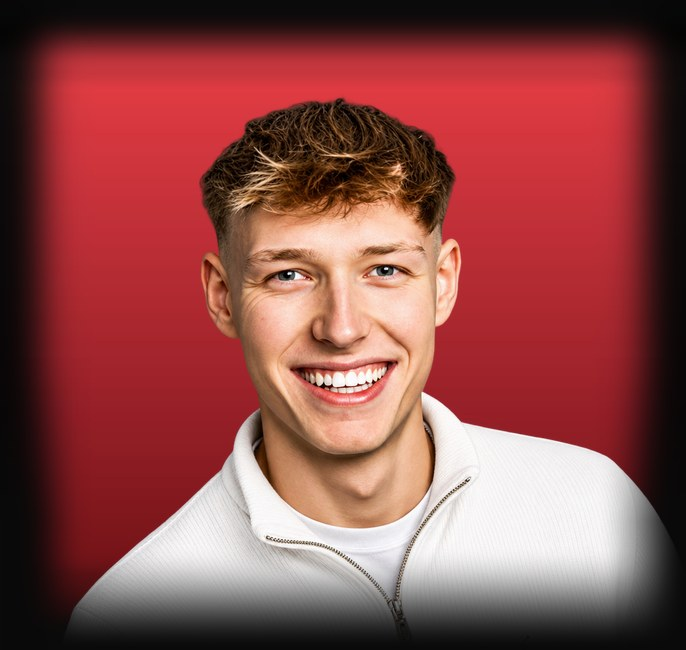
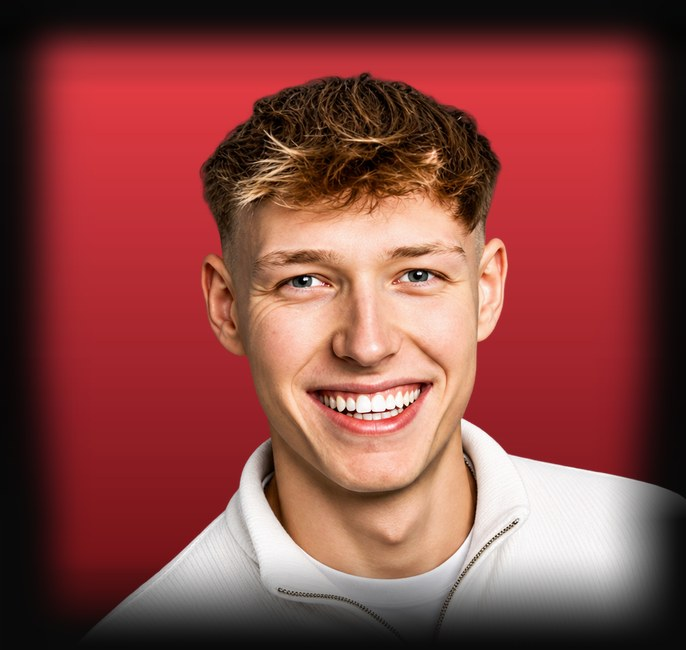
Team-Fotos: Kopfgrößen angeglichen
Claude-Session: https://claude.ai/code/session_01TXyrLPAgJLvZEgJw2Px1jA

Changed region(s): [[0.0918, 0.0923, 0.9184, 0.9846], [0.9184, 0.7385, 1.0, 0.8308]]

diff --git a/index.html b/index.html
@@ -1679,9 +1679,9 @@ form .btn{justify-content:center;margin-top:6px}
       </div>
       <div class="team-head"><span class="eyebrow">Ihr Team</span><h3>Die Köpfe hinter Ihrem Wachstum.</h3></div>
       <div class="team">
-        <figure class="tm"><div class="tm-img"><img src="assets/team-viktor-b.jpg" alt="Viktor Fehl, Gründer und Strategie" loading="lazy"><svg class="svc-bolt" viewBox="0 0 200 120" preserveAspectRatio="none" aria-hidden="true"><path d="M150 0 L118 46 L132 50 L96 120"/></svg></div><figcaption><b>Viktor Fehl</b><span class="tm-role">Gründer · Strategie</span><p>Plant Ihre Strategie und hält alle Fäden zusammen.</p></figcaption></figure>
-        <figure class="tm"><div class="tm-img"><img src="assets/team-julian-b.jpg" alt="Julian Siewe, Hotline-Service" loading="lazy"><svg class="svc-bolt" viewBox="0 0 200 120" preserveAspectRatio="none" aria-hidden="true"><path d="M150 0 L118 46 L132 50 L96 120"/></svg></div><figcaption><b>Julian Siewe</b><span class="tm-role">Hotline-Service</span><p>Nimmt Ihren Anruf entgegen und vereinbart Ihren Termin.</p></figcaption></figure>
-        <figure class="tm"><div class="tm-img"><img src="assets/team-933826-v2.jpg" alt="Eugenia Liefke, Meta, TikTok und Google Ads" loading="lazy"><svg class="svc-bolt" viewBox="0 0 200 120" preserveAspectRatio="none" aria-hidden="true"><path d="M150 0 L118 46 L132 50 L96 120"/></svg></div><figcaption><b>Eugenia Liefke</b><span class="tm-role">Meta, TikTok &amp; Google Ads</span><p>Schaltet Ihre Kampagnen und sorgt dafür, dass die richtigen Leute Sie finden.</p></figcaption></figure>
+        <figure class="tm"><div class="tm-img"><img src="assets/team-viktor-b.jpg?v=2" alt="Viktor Fehl, Gründer und Strategie" loading="lazy"><svg class="svc-bolt" viewBox="0 0 200 120" preserveAspectRatio="none" aria-hidden="true"><path d="M150 0 L118 46 L132 50 L96 120"/></svg></div><figcaption><b>Viktor Fehl</b><span class="tm-role">Gründer · Strategie</span><p>Plant Ihre Strategie und hält alle Fäden zusammen.</p></figcaption></figure>
+        <figure class="tm"><div class="tm-img"><img src="assets/team-julian-b.jpg?v=2" alt="Julian Siewe, Hotline-Service" loading="lazy"><svg class="svc-bolt" viewBox="0 0 200 120" preserveAspectRatio="none" aria-hidden="true"><path d="M150 0 L118 46 L132 50 L96 120"/></svg></div><figcaption><b>Julian Siewe</b><span class="tm-role">Hotline-Service</span><p>Nimmt Ihren Anruf entgegen und vereinbart Ihren Termin.</p></figcaption></figure>
+        <figure class="tm"><div class="tm-img"><img src="assets/team-eugenia-b.jpg" alt="Eugenia Liefke, Meta, TikTok und Google Ads" loading="lazy"><svg class="svc-bolt" viewBox="0 0 200 120" preserveAspectRatio="none" aria-hidden="true"><path d="M150 0 L118 46 L132 50 L96 120"/></svg></div><figcaption><b>Eugenia Liefke</b><span class="tm-role">Meta, TikTok &amp; Google Ads</span><p>Schaltet Ihre Kampagnen und sorgt dafür, dass die richtigen Leute Sie finden.</p></figcaption></figure>
         <figure class="tm"><div class="tm-img"><img src="assets/team-d563f9-v2.jpg" alt="Kevin Plettenberg, Vertrieb und Verkauf" loading="lazy"><svg class="svc-bolt" viewBox="0 0 200 120" preserveAspectRatio="none" aria-hidden="true"><path d="M150 0 L118 46 L132 50 L96 120"/></svg></div><figcaption><b>Kevin Plettenberg</b><span class="tm-role">Vertrieb &amp; Verkauf</span><p>Berät Sie persönlich und begleitet Sie bis zum Auftrag.</p></figcaption></figure>
       </div>
     </div>
@@ -2037,7 +2037,7 @@ form .btn{justify-content:center;margin-top:6px}
   <section class="a-sec a-team" id="a-team">
     <div class="wrap">
       <div class="a-head"><div><span class="kick">Dein Team</span><h2>Echte Menschen. <b>Ein Team.</b></h2></div></div>
-      <div class="at-grid"><figure><img src="assets/team-41d034-v2.jpg" alt="Portrait Viktor Fehl" loading="lazy"><figcaption><b>Viktor Fehl</b><span>Gründer · Strategie</span></figcaption></figure><figure><img src="assets/team-julian-a.jpg" alt="Portrait Julian Siewe" loading="lazy"><figcaption><b>Julian Siewe</b><span>Hotline-Service</span></figcaption></figure><figure><img src="assets/team-52ae26-v2.jpg" alt="Portrait Eugenia Liefke" loading="lazy"><figcaption><b>Eugenia Liefke</b><span>Meta, TikTok &amp; Google Ads</span></figcaption></figure><figure><img src="assets/team-d2c870-v2.jpg" alt="Portrait Kevin Plettenberg" loading="lazy"><figcaption><b>Kevin Plettenberg</b><span>Vertrieb &amp; Verkauf</span></figcaption></figure></div>
+      <div class="at-grid"><figure><img src="assets/team-41d034-v2.jpg" alt="Portrait Viktor Fehl" loading="lazy"><figcaption><b>Viktor Fehl</b><span>Gründer · Strategie</span></figcaption></figure><figure><img src="assets/team-julian-a.jpg?v=2" alt="Portrait Julian Siewe" loading="lazy"><figcaption><b>Julian Siewe</b><span>Hotline-Service</span></figcaption></figure><figure><img src="assets/team-52ae26-v2.jpg" alt="Portrait Eugenia Liefke" loading="lazy"><figcaption><b>Eugenia Liefke</b><span>Meta, TikTok &amp; Google Ads</span></figcaption></figure><figure><img src="assets/team-d2c870-v2.jpg" alt="Portrait Kevin Plettenberg" loading="lazy"><figcaption><b>Kevin Plettenberg</b><span>Vertrieb &amp; Verkauf</span></figcaption></figure></div>
     </div>
   </section>
   <section class="a-reviews" aria-label="Bewertungen">
